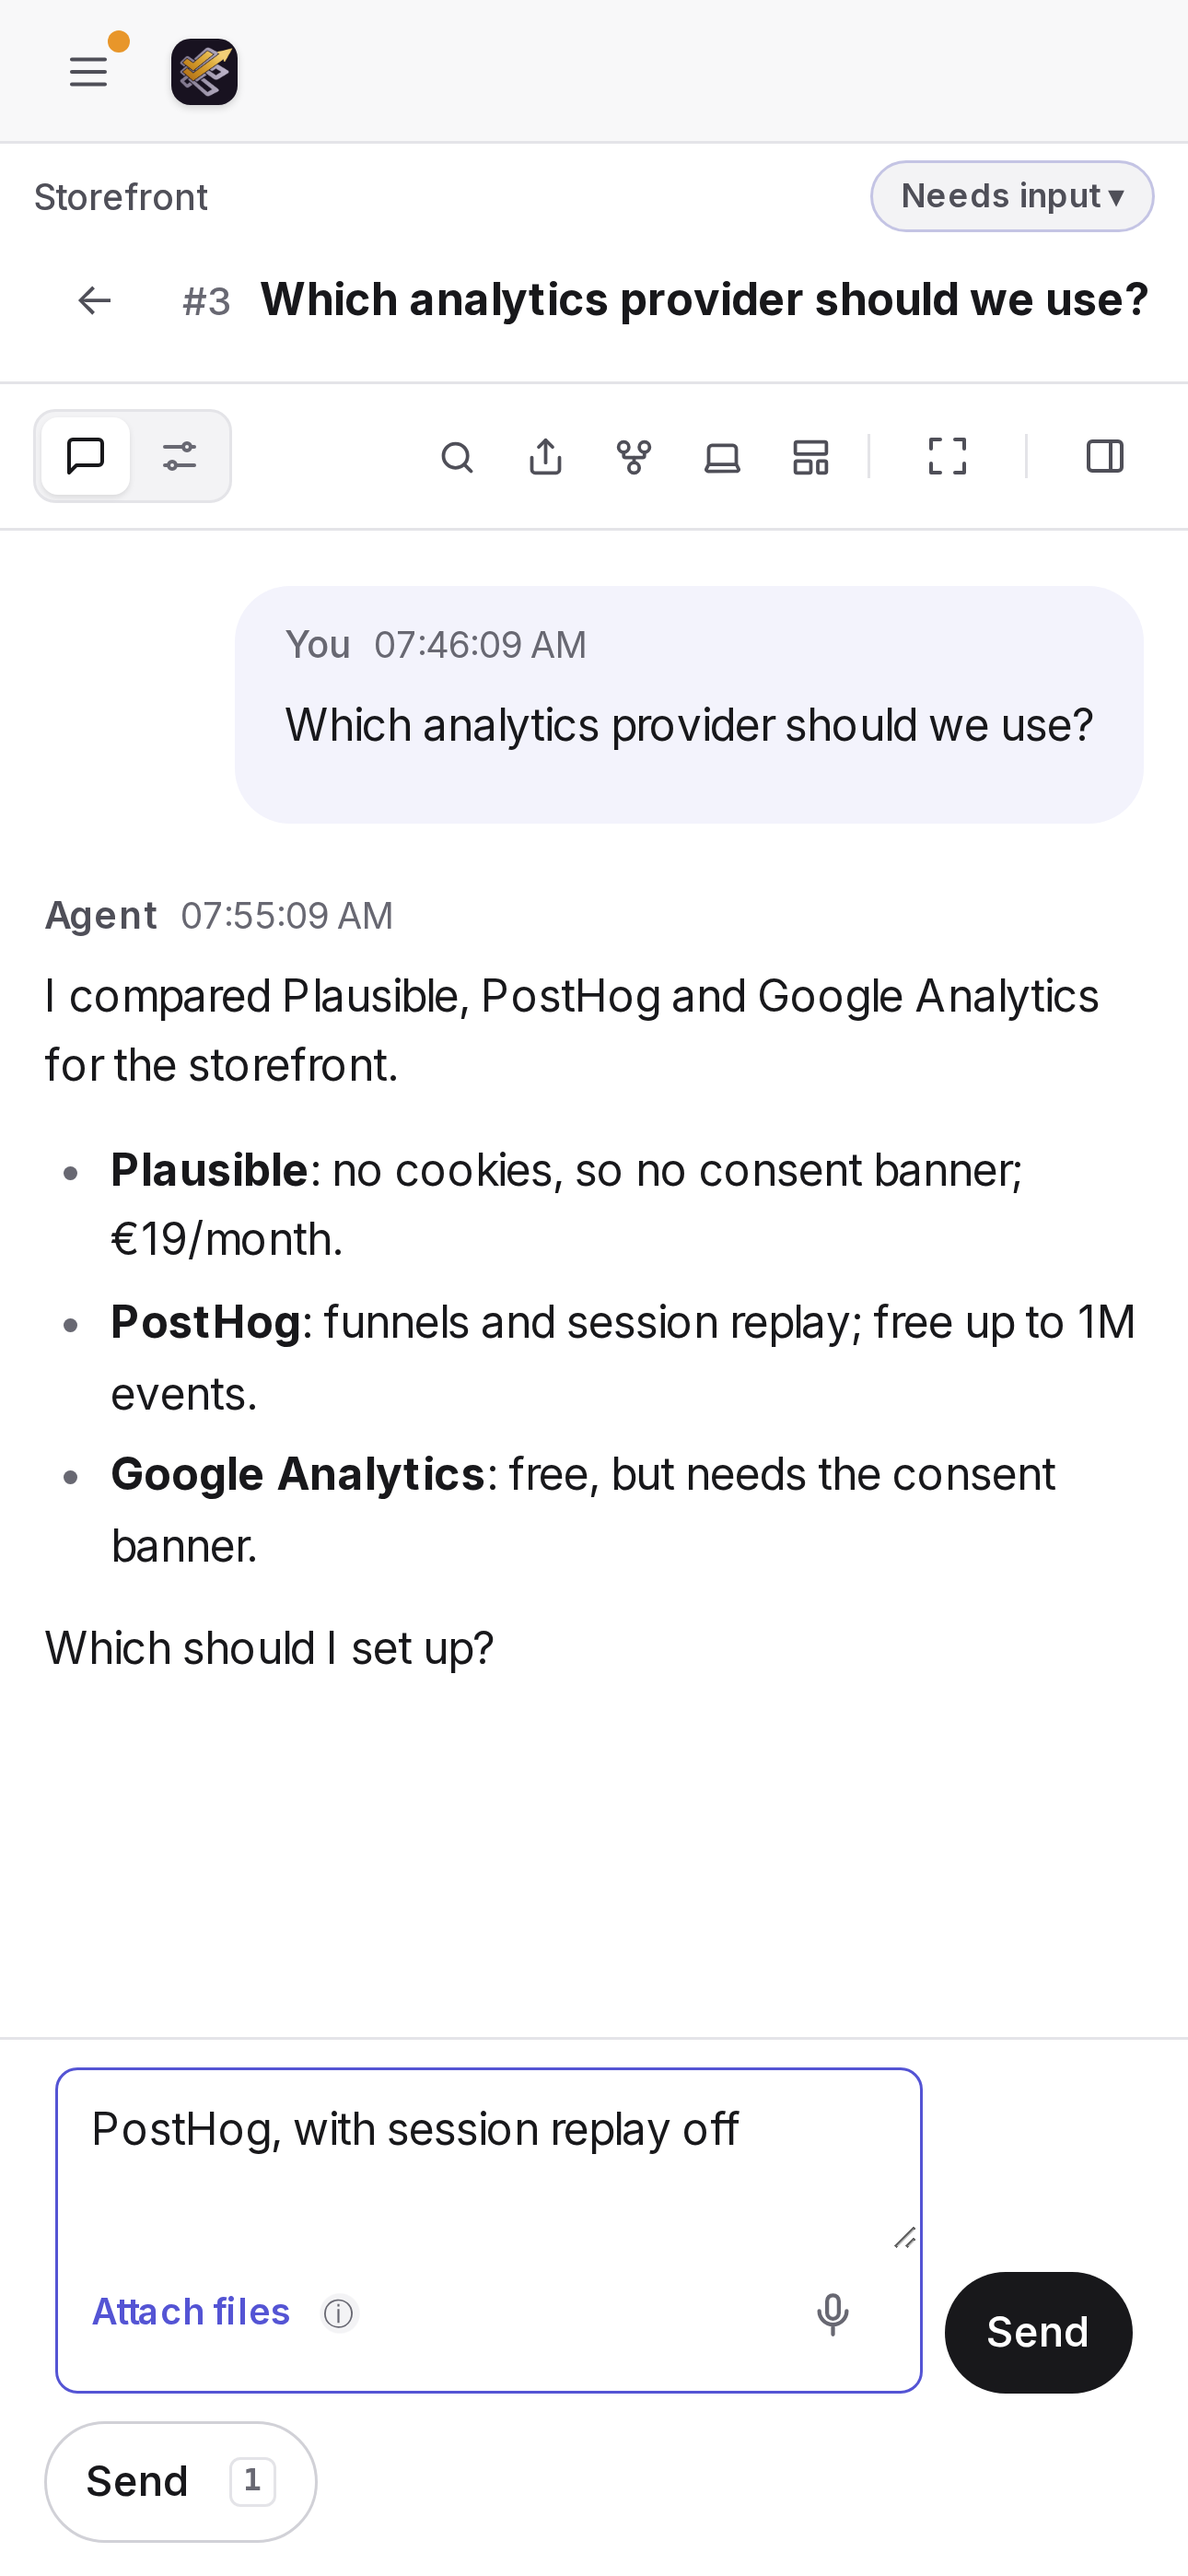
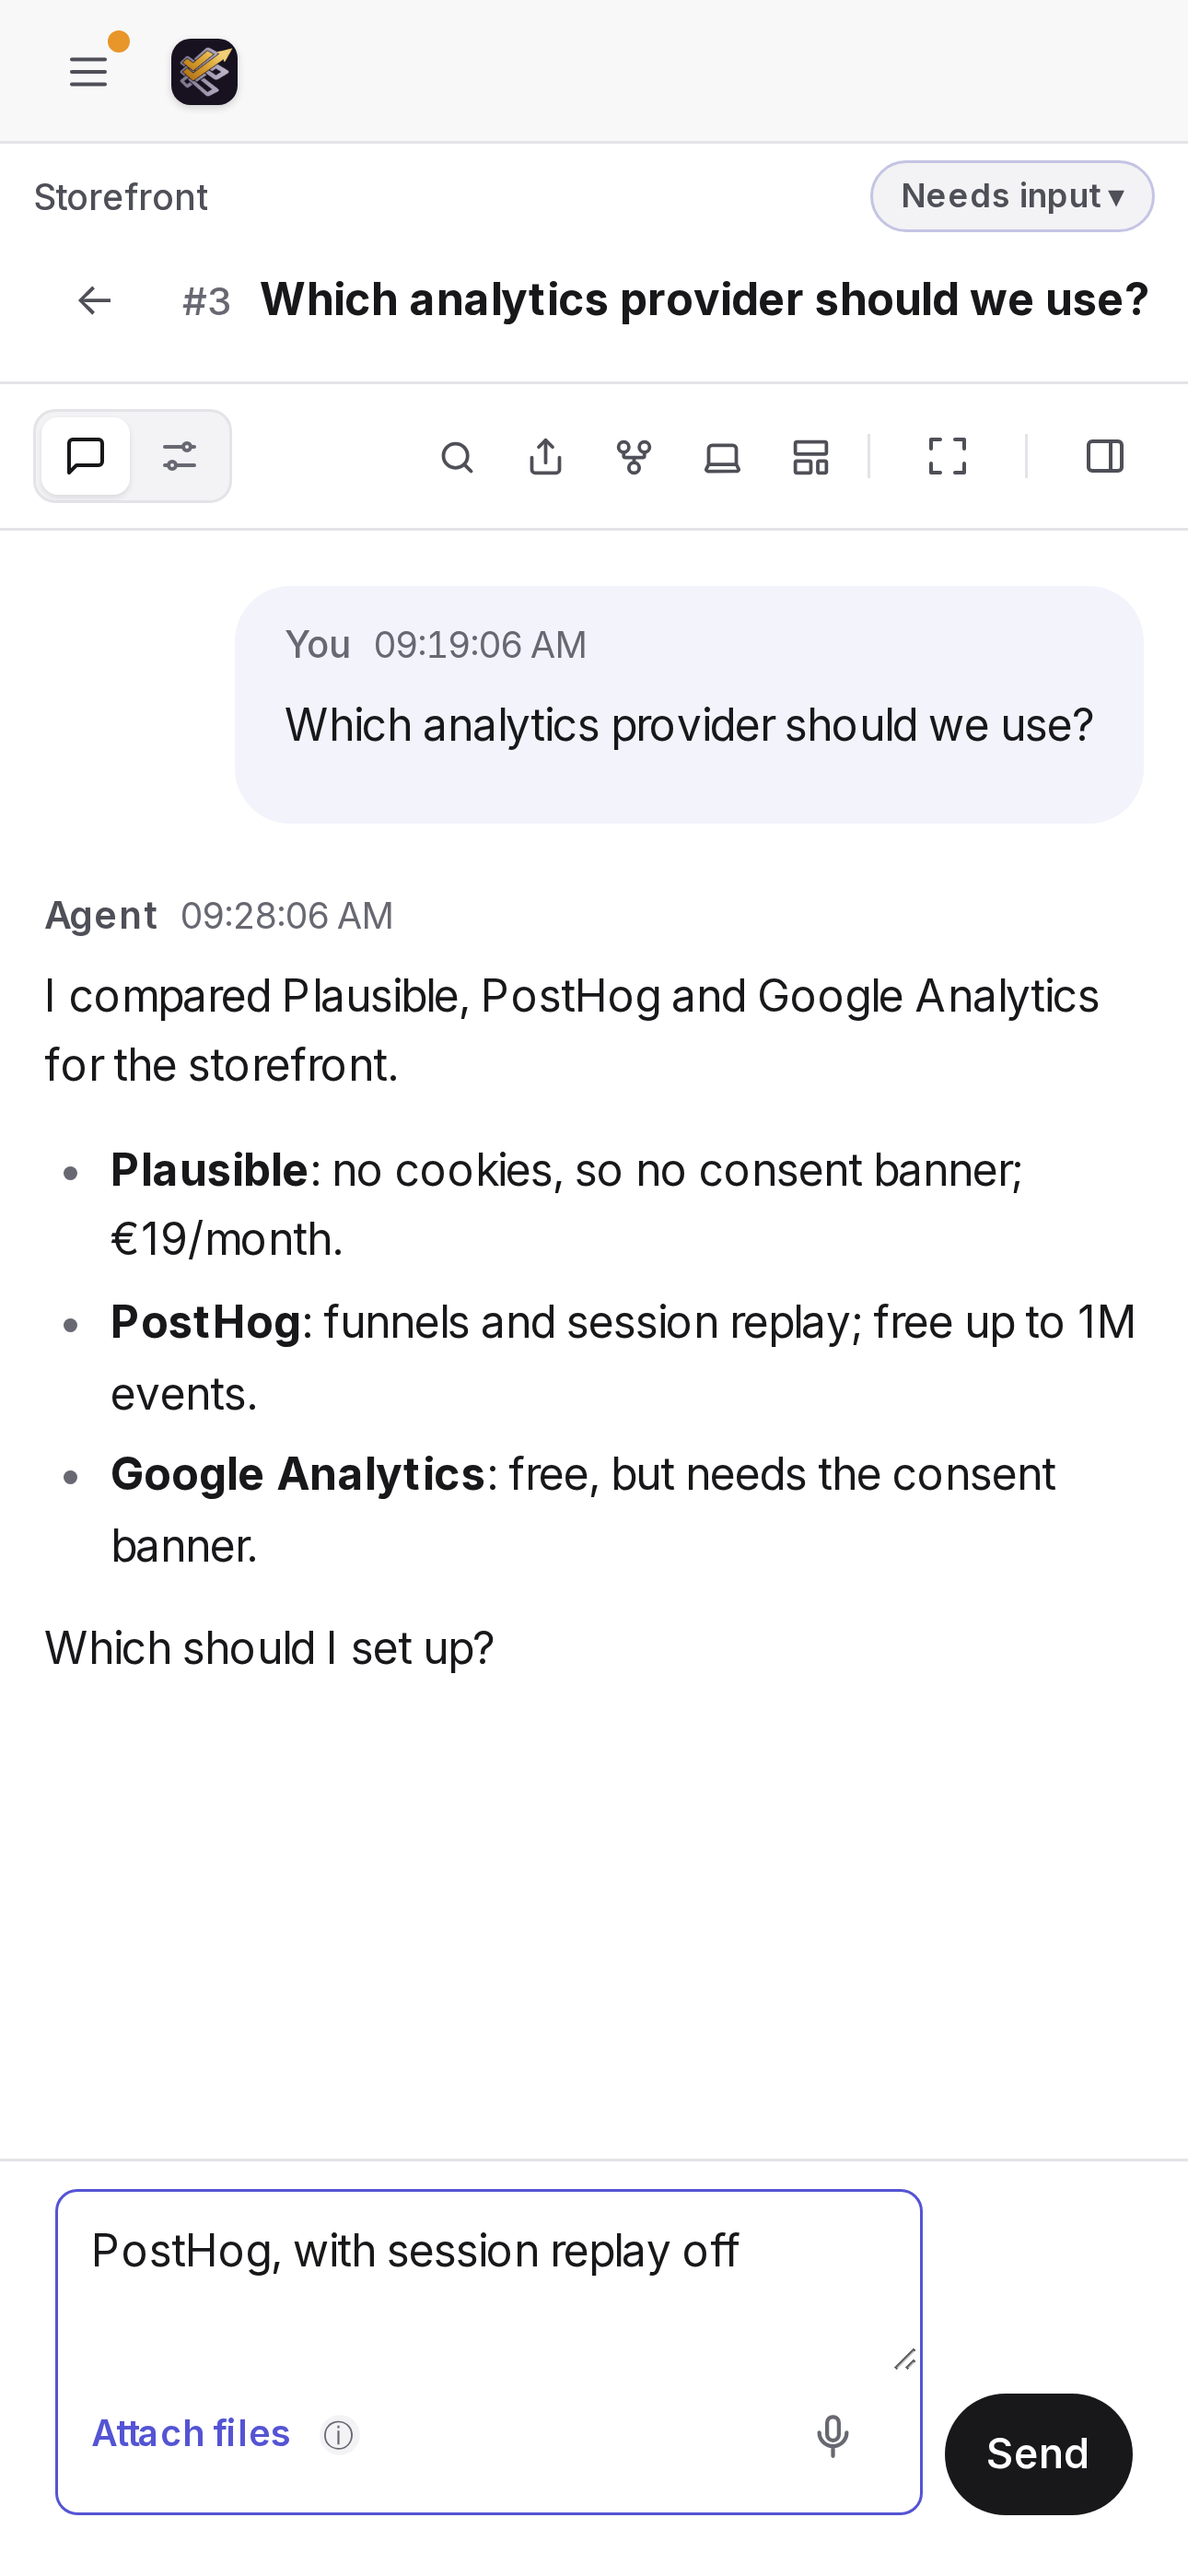
Phone: no keyboard hints on a touch-only screen; store screenshots show a real task's composer
The listing fixture declared followUp without args, so it rendered as a
second Send button no real task shows. Keyboard hints (Ctrl+↵, 1–9) mean
nothing on a phone and are hidden where there is no hover and the pointer
is coarse.

diff --git a/tests/phone-app-screens.browser.test.ts b/tests/phone-app-screens.browser.test.ts
@@ -66,7 +66,7 @@ it.skipIf(!SHOTS)('shoots the store screenshots', async () => {
       const asking = title.startsWith('Which');
       if (asking) question = String(task.num);
       await g.store.saveView(task.id, { taskId: task.id, title, workflow: 'software-dev', stage, status,
-        ...(waiting ? { waitingFor: { kind: waiting } } : {}), actions: [{ name: 'followUp', label: 'Send', enabled: true }], state: {}, updatedAt: Date.now(),
+        ...(waiting ? { waitingFor: { kind: waiting } } : {}), actions: [{ name: 'followUp', kind: 'signal', label: 'Send follow-up', enabled: true, args: [{ name: 'text', type: 'text', label: 'Message', required: true }] }], state: {}, updatedAt: Date.now(),
         messages: [{ id: 'm0', role: 'user', text: title, ts: Date.now() - 600_000 },
           ...(asking ? [{ id: 'a1', role: 'agent', ts: Date.now() - 60_000,
             text: 'I compared Plausible, PostHog and Google Analytics for the storefront.\n\n- **Plausible**: no cookies, so no consent banner; €19/month.\n- **PostHog**: funnels and session replay; free up to 1M events.\n- **Google Analytics**: free, but needs the consent banner.\n\nWhich should I set up?' }] : [])],

diff --git a/web/styles.css b/web/styles.css
@@ -2256,6 +2256,8 @@ a.ins-task-title:hover { color: var(--accent); }
 .task-row.unread.cursor { box-shadow: inset 3px 0 0 var(--accent), 0 0 0 3px var(--accent-weak); }
 .task-row:focus-visible, .queue-item:focus-visible { outline: 2px solid var(--accent); outline-offset: -2px; }
 .kbd { margin-left: 7px; font-family: var(--font-mono); font-size: var(--fs-10); line-height: 1.5; color: var(--ink-3); border: 1px solid var(--line); border-radius: 4px; padding: 0 4px; }
+/* A touch screen with no keyboard has no shortcuts to show (the phone apps, phones in a browser). */
+@media (hover: none) and (pointer: coarse) { .kbd { display: none; } }
 .btn.primary .kbd, .btn.danger .kbd { color: inherit; border-color: currentColor; opacity: .7; }
 /* "?" help: sections flow into two columns on a wide screen, one on a phone. */
 .help-panel { width: min(780px, 94vw); max-height: 80vh; display: flex; flex-direction: column; }
